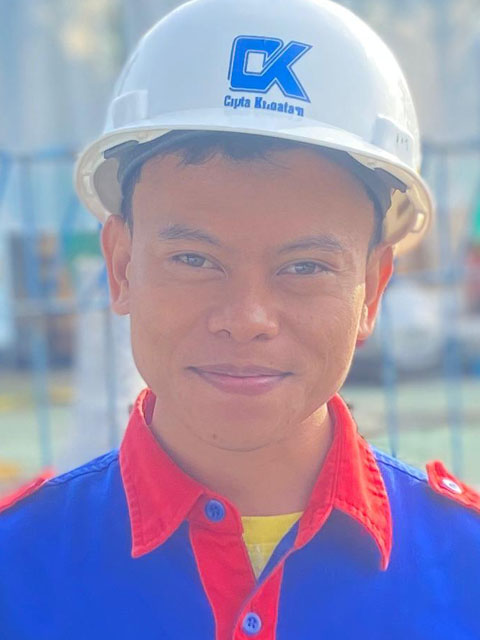
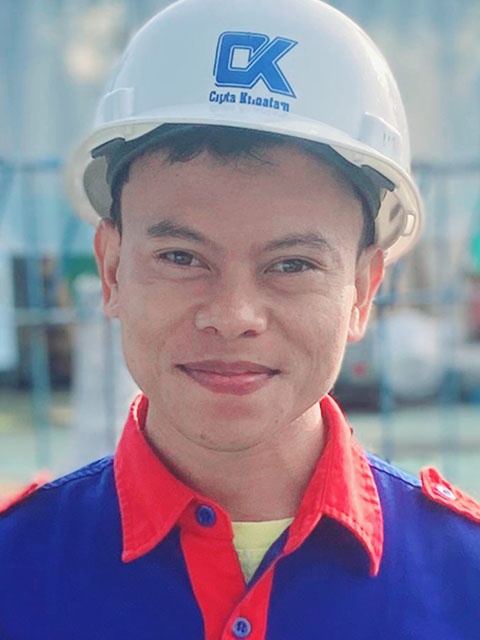
foto3

diff --git a/css/style.css b/css/style.css
@@ -12,7 +12,7 @@ header .mode .galeri-container {padding: 10px;  cursor: pointer; border: none; b
 
 header .mode .galeri-container .tombol-terang {display: none; color: white; background-color: darkorange; transition: background-color 1.0s ease;}
 
-div.nama span.tombol-terang, div.kontak img.tombol-terang {display: none;}
+div.kontak img.tombol-terang {display: none;}
 
 header .mode .galeri-container .tombol-gelap {color: white; background-color: midnightblue; transition: background-color 1.0s ease;}
 
@@ -38,11 +38,11 @@ body.gelap {background-color: #000; transition: background-color 1.0s ease;}
 
 .gelap header .mode .tombol-terang {display: inline;} 
 
-.gelap div.nama .tombol-terang, .gelap div.kontak .tombol-terang {display: inline;} 
+.gelap div.kontak .tombol-terang {display: inline;}
 
 .gelap header .mode .tombol-gelap {display: none;} 
 
-.gelap div.nama .tombol-gelap, .gelap div.kontak .tombol-gelap {display: none;}
+.gelap div.kontak .tombol-gelap {display: none;}
 
 div.tmp-pddkn a img {float: right; top: 0; padding-top: 0px;  margin-top: 0px;  padding-right: 0px;  margin-right: 0px;  max-width: 26px;}
 
@@ -77,6 +77,58 @@ div.tmp-pengalaman a img:hover, #keahlian a img:hover, #keahlian_sertifikat a im
 .ringkasan {text-align: justify;} 
 
 .nama img {width: 120px;  border: none;} 
+
+.foto-profil {
+    position: relative;
+    display: inline-block;
+    width: 120px;
+    height: 160px;
+    line-height: 0;
+}
+
+.foto-profil .tombol-terang,
+.foto-profil .tombol-gelap {
+    position: absolute;
+    inset: 0;
+    display: block;
+    backface-visibility: hidden;
+    will-change: opacity, transform;
+    transition: opacity 0.675s cubic-bezier(0.45, 0, 0.55, 1), transform 0.675s cubic-bezier(0.45, 0, 0.55, 1);
+}
+
+.foto-profil img {
+    display: block;
+    width: 100%;
+    height: 100%;
+    object-fit: cover;
+}
+
+.foto-profil .tombol-terang {
+    opacity: 0;
+    pointer-events: none;
+    transform: scale(0.96);
+}
+
+.foto-profil .tombol-gelap {
+    opacity: 1;
+    pointer-events: auto;
+    transform: scale(1);
+    transition-delay: 0.05s;
+}
+
+.gelap .foto-profil .tombol-terang {
+    opacity: 1;
+    pointer-events: auto;
+    transform: scale(1);
+    transition-delay: 0.05s;
+}
+
+.gelap .foto-profil .tombol-gelap {
+    opacity: 0;
+    pointer-events: none;
+    transform: scale(0.96);
+    transition-delay: 0s;
+}
 
 .kontak p a {color: black; text-decoration: none; overflow-wrap: anywhere; transition: color 0.5s ease;} 
 
@@ -354,8 +406,8 @@ footer .hak-cipta {margin-top: 15px;  padding: 5px;  border-top: 2px solid #b71c
 }
 
 .toggle-label {
-    width: 154px;
-    height: 66px;
+    width: 95px;
+    height: 53px;
     border-radius: 999px;
     position: relative;
     cursor: pointer;
@@ -367,17 +419,17 @@ footer .hak-cipta {margin-top: 15px;  padding: 5px;  border-top: 2px solid #b71c
 
 .toggle-liquid {
     position: absolute;
-    inset: 11px 3px;
-    border: 1px solid rgba(255, 255, 255, 0.72);
+    inset: 6px 2px;
+    border: 1px solid rgba(2, 132, 199, 0.68);
     border-radius: 999px;
     overflow: hidden;
     background:
-        linear-gradient(145deg, rgba(255, 255, 255, 0.72) 0%, rgba(186, 230, 253, 0.48) 45%, rgba(251, 191, 36, 0.34) 100%),
-        rgba(255, 255, 255, 0.2);
+        linear-gradient(145deg, rgba(224, 242, 254, 0.9) 0%, rgba(125, 211, 252, 0.62) 48%, rgba(14, 165, 233, 0.5) 100%),
+        rgba(14, 165, 233, 0.2);
     box-shadow:
-        inset 0px 4px 8px rgba(255, 255, 255, 0.75),
-        inset 0px -8px 14px rgba(15, 23, 42, 0.16),
-        0px 9px 18px rgba(15, 23, 42, 0.2);
+        inset 0px 4px 8px rgba(255, 255, 255, 0.82),
+        inset 0px -8px 14px rgba(2, 132, 199, 0.28),
+        0px 9px 18px rgba(2, 132, 199, 0.26);
     transition: background 0.45s ease, border-color 0.45s ease, box-shadow 0.45s ease;
     z-index: 1;
 }
@@ -408,14 +460,14 @@ footer .hak-cipta {margin-top: 15px;  padding: 5px;  border-top: 2px solid #b71c
 
 .gelap .toggle-liquid,
 .toggle-checkbox:checked + .toggle-label .toggle-liquid {
-    border-color: rgba(191, 219, 254, 0.46);
+    border-color: rgba(103, 232, 249, 0.62);
     background:
-        linear-gradient(145deg, rgba(22, 78, 99, 0.72) 0%, rgba(30, 41, 59, 0.82) 48%, rgba(2, 6, 23, 0.9) 100%),
-        rgba(15, 23, 42, 0.42);
+        linear-gradient(145deg, rgba(22, 78, 99, 0.92) 0%, rgba(15, 60, 92, 0.94) 48%, rgba(8, 47, 73, 0.98) 100%),
+        rgba(8, 47, 73, 0.58);
     box-shadow:
-        inset 0px 4px 8px rgba(255, 255, 255, 0.22),
-        inset 0px -10px 16px rgba(0, 0, 0, 0.42),
-        0px 9px 20px rgba(0, 0, 0, 0.34);
+        inset 0px 4px 8px rgba(207, 250, 254, 0.3),
+        inset 0px -10px 16px rgba(0, 0, 0, 0.46),
+        0px 9px 20px rgba(8, 145, 178, 0.32);
 }
 
 .toggle-text {
@@ -423,35 +475,35 @@ footer .hak-cipta {margin-top: 15px;  padding: 5px;  border-top: 2px solid #b71c
     inset: 0;
     display: flex;
     align-items: center;
-    color: #7c3f00;
-    font-size: 15px;
+    color: #0c4a6e;
+    font-size: 12px;
     font-weight: 700;
     line-height: 1;
     letter-spacing: 0;
-    text-shadow: 0px 1px 1px rgba(255, 255, 255, 0.62);
+    text-shadow: 0px 1px 1px rgba(255, 255, 255, 0.72);
     transition: opacity 0.3s ease, transform 0.35s ease, color 0.35s ease;
     z-index: 2;
 }
 
 .toggle-text-light {
     justify-content: flex-end;
-    padding: 0 23px 0 62px;
+    padding: 0 8px 0 44px;
     opacity: 1;
     transform: translateX(0);
 }
 
 .toggle-text-dark {
     justify-content: flex-start;
-    padding: 0 62px 0 24px;
-    color: #dbeafe;
+    padding: 0 44px 0 8px;
+    color: #e0f2fe;
     opacity: 0;
     text-shadow: 0px 1px 2px rgba(0, 0, 0, 0.5);
-    transform: translateX(10px);
+    transform: translateX(8px);
 }
 
 .toggle-checkbox:checked + .toggle-label .toggle-text-light {
     opacity: 0;
-    transform: translateX(-10px);
+    transform: translateX(-8px);
 }
 
 .toggle-checkbox:checked + .toggle-label .toggle-text-dark {
@@ -469,23 +521,23 @@ footer .hak-cipta {margin-top: 15px;  padding: 5px;  border-top: 2px solid #b71c
 }
 
 .toggle-ball {
-    width: 58px;
-    height: 58px;
+    width: 41px;
+    height: 41px;
     border-radius: 50%;
     position: absolute;
-    left: 1px;
-    top: 4px;
+    left: 3px;
+    top: 6px;
     display: grid;
     place-items: center;
     overflow: hidden;
     background:
         radial-gradient(circle at 34% 28%, rgba(255, 255, 255, 0.92) 0 4px, rgba(255, 255, 255, 0.22) 5px 16px, transparent 17px),
-        linear-gradient(145deg, rgba(255, 249, 196, 0.86), rgba(251, 191, 36, 0.72));
+        linear-gradient(145deg, rgba(254, 243, 199, 0.95), rgba(245, 158, 11, 0.86));
     border: 1px solid rgba(255, 255, 255, 0.75);
     box-shadow:
         inset 0px 5px 9px rgba(255, 255, 255, 0.7),
-        inset 0px -9px 13px rgba(180, 83, 9, 0.22),
-        0px 8px 16px rgba(146, 64, 14, 0.38);
+        inset 0px -9px 13px rgba(180, 83, 9, 0.3),
+        0px 8px 16px rgba(180, 83, 9, 0.42);
     z-index: 3;
     transition: transform 0.45s cubic-bezier(0.4, 0, 0.2, 1), background 0.45s ease, border-color 0.45s ease, box-shadow 0.45s ease;
 }
@@ -493,7 +545,7 @@ footer .hak-cipta {margin-top: 15px;  padding: 5px;  border-top: 2px solid #b71c
 .toggle-ball::before {
     content: "";
     position: absolute;
-    inset: 10px 11px 11px 17px;
+    inset: 8px 9px 9px 14px;
     border-radius: 50%;
     background: rgba(96, 165, 250, 0.42);
     box-shadow:
@@ -512,15 +564,15 @@ footer .hak-cipta {margin-top: 15px;  padding: 5px;  border-top: 2px solid #b71c
 }
 
 .toggle-checkbox:checked + .toggle-label .toggle-ball {
-    transform: translateX(94px);
+    transform: translateX(48px);
     background:
-        radial-gradient(circle at 34% 28%, rgba(255, 255, 255, 0.78) 0 4px, rgba(255, 255, 255, 0.15) 5px 16px, transparent 17px),
-        linear-gradient(145deg, rgba(219, 234, 254, 0.82), rgba(51, 65, 85, 0.82));
-    border-color: rgba(191, 219, 254, 0.64);
+        radial-gradient(circle at 34% 28%, rgba(255, 255, 255, 0.88) 0 4px, rgba(255, 255, 255, 0.24) 5px 16px, transparent 17px),
+        linear-gradient(145deg, rgba(248, 250, 252, 0.96), rgba(148, 163, 184, 0.88));
+    border-color: rgba(226, 232, 240, 0.84);
     box-shadow:
-        inset 0px 5px 9px rgba(255, 255, 255, 0.34),
-        inset 0px -10px 14px rgba(2, 6, 23, 0.38),
-        0px 8px 18px rgba(2, 6, 23, 0.48);
+        inset 0px 5px 9px rgba(255, 255, 255, 0.58),
+        inset 0px -10px 14px rgba(51, 65, 85, 0.38),
+        0px 8px 18px rgba(2, 6, 23, 0.52);
 }
 
 .toggle-checkbox:checked + .toggle-label .toggle-ball::before {
@@ -582,28 +634,34 @@ body.gelap .moon svg {
     }
 
     .toggle-label {
-        width: 136px;
-        height: 60px;
+        width: 87px;
+        height: 49px;
+    }
+
+    .toggle-liquid {
+        inset: 5px 2px;
     }
 
     .toggle-ball {
-        width: 52px;
-        height: 52px;
+        width: 39px;
+        height: 39px;
+        left: 3px;
+        top: 5px;
     }
 
     .toggle-checkbox:checked + .toggle-label .toggle-ball {
-        transform: translateX(82px);
+        transform: translateX(42px);
     }
 
     .toggle-text {
-        font-size: 14px;
+        font-size: 12px;
     }
 
     .toggle-text-light {
-        padding: 0 19px 0 56px;
+        padding: 0 7px 0 43px;
     }
 
     .toggle-text-dark {
-        padding: 0 56px 0 20px;
+        padding: 0 43px 0 7px;
     }
 }

diff --git a/index.html b/index.html
@@ -18,7 +18,7 @@
 
 <header>
     <div class="mode">
-        <h1>E - DAFTAR RIWAYAT HIDUP</h1>
+        <h1>E - PROFIL</h1>
         <p>
             <div class="toggle-container">
                 <input type="checkbox" id="toggle-mode" class="toggle-checkbox" aria-label="Ganti mode terang atau gelap">
@@ -98,7 +98,7 @@
     <div class="tentang-saya"><hr>
         <div class="identitas">
             <div class="nama">
-                <a oncontextmenu='return false;' onkeydown='return false;' onmousedown='return false;' ondragstart='return false' onselectstart='return false' -moz-user-select: none; cursor: default;>
+                <a class="foto-profil" oncontextmenu='return false;' onkeydown='return false;' onmousedown='return false;' ondragstart='return false' onselectstart='return false' -moz-user-select: none; cursor: default;>
                     <span class="tombol-terang"><img src="img/foto2.jpg"></span>
                     <span class="tombol-gelap"><img src="img/foto3.jpg"></span></a><br>
                 <a class="nama1">AKHMAD JAINI</a>
@@ -106,17 +106,17 @@
             <div class="kontak">
                 <p>
                     <a href="tel:+6281251702050">+62 812-5170-XXXX</a>&ensp;&ensp;
-                    <a href="sms:081251702050?body=Undangan%20Rekrutmen" target="blank">
+                    <a href="sms:081251702050?body=Undangan%20bergabung" target="blank">
                         <img class="tombol-terang" src="img/sms_putih.png" style="width: 30px; height: 30px; margin-bottom: -10px;">
                         <img class="tombol-gelap" src="img/sms_hitam.png" style="width: 30px; height: 30px; margin-bottom: -10px;">
                     </a>&ensp;
-                    <a href="https://wa.me/+6281251702050?text=Undangan%20Rekrutmen" target="_blank">
+                    <a href="https://wa.me/+6281251702050?text=Undangan%20bergabung" target="_blank">
                         <img class="tombol-terang" src="img/whasapp_putih.png" style="width: 25px; height: 25px; margin-bottom: -7px;">
                         <img class="tombol-gelap" src="img/whasapp_hitam.png" style="width: 25px; height: 25px; margin-bottom: -7px;">
                     </a>
                 </p>
                 <p>
-                    <a href="mailto:berkah.rezeki7@gmail.com?subject=Undangan%20Rekrutmen&body=Terima%20Kasih" target="_blank">BERKAH.REZEKI7@GMAIL.COM</a>
+                    <a href="mailto:berkah.rezeki7@gmail.com?subject=Undangan%20bergabung&body=Terima%20Kasih" target="_blank">BERKAH.REZEKI7@GMAIL.COM</a>
                 </p>
                 <p>
                     <a href="https://www.linkedin.com/in/zein-it" target="_blank">LINKEDIN.COM/IN/ZEIN-IT</a>
